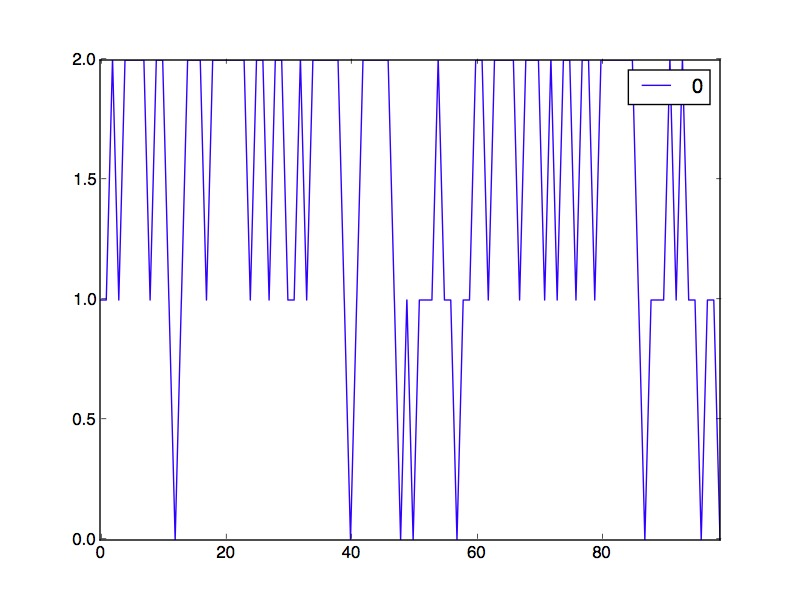
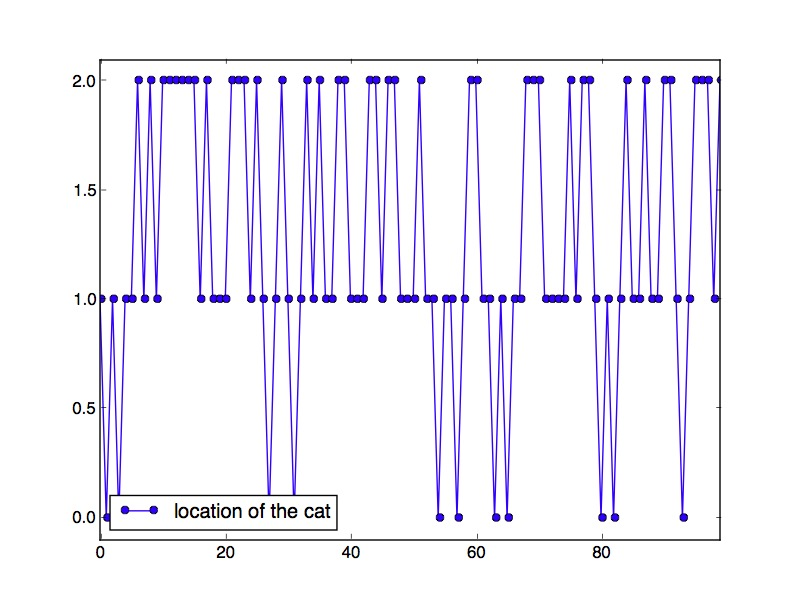
added: Readme.md

diff --git a/cat_3rooms.py b/cat_3rooms.py
@@ -13,10 +13,12 @@ for i in range(NITER):
     pos = pos_next
     data_pos.append(pos)
 
-df = pd.DataFrame(data_pos)
-df[:100].plot()
+df = pd.DataFrame(data_pos, columns=['location of the cat'], index = None)
+df[:100].plot(style='-o', ylim=[-0.1, 2.1])
 plt.savefig('cat_3rooms.jpeg')
 
-grp = df.groupby(0)
+grp = df.groupby('location of the cat')
 df_count = grp.size()
-print df_count/df_count[0]
+
+df_ratio = pd.DataFrame(df_count.get_values()/float(df_count.get_values()[0]), columns = ['ratio of counts'], index = ['room I','room II','room III'])
+print df_ratio
